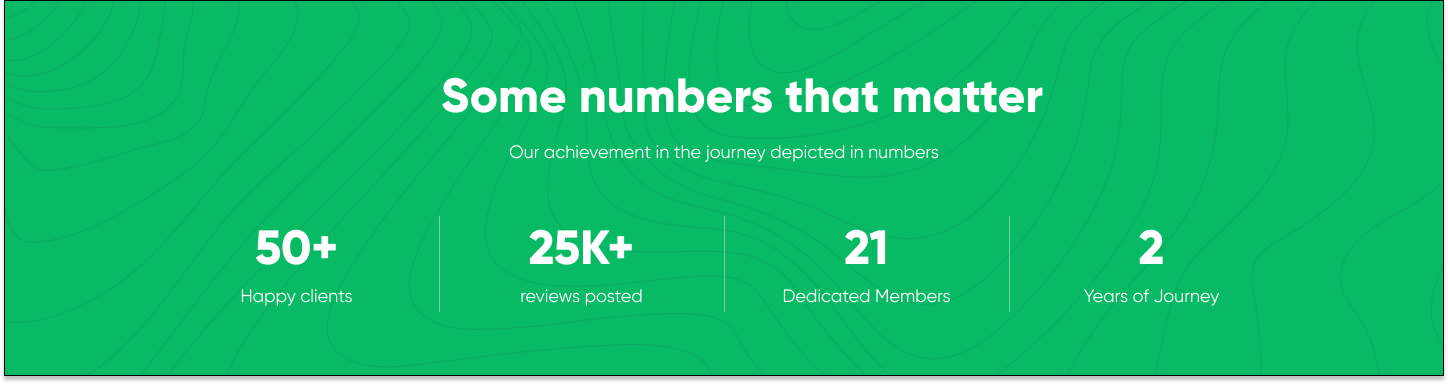
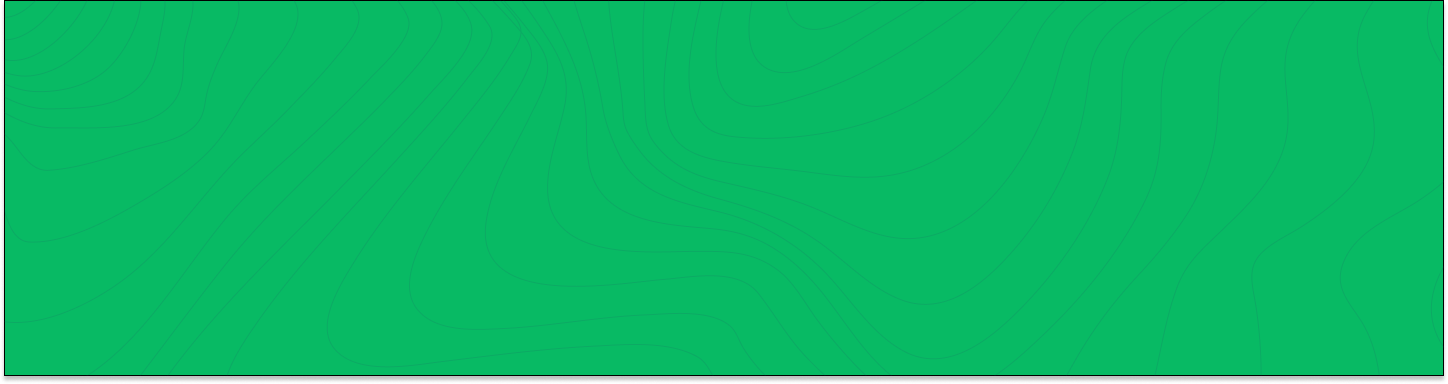
services

diff --git a/css/tooplate-infinite-loop.css b/css/tooplate-infinite-loop.css
@@ -1080,6 +1080,28 @@ input[type=submit]:hover {
 
 }
 
+.mail1{
+  color: rgb(0, 0, 0);
+  padding-left: 20px;
+  
+}
+.mail1:hover{
+  transform: scale(1.01);
+  transition: 0.5s;
+
+}
+.call1{
+  color: rgb(0, 0, 0);
+  padding-left: 20px;
+  
+}
+
+.call1:hover{
+  transform: scale(1.01);
+  transition: 0.5s;
+
+}
+
 .social {
   justify-content: space-evenly;
   padding-top: 10px;
@@ -1098,4 +1120,182 @@ input[type=submit]:hover {
 .social img:hover{
   transform: scale(1.1);
   transition: 0.5s;
+}
+
+.whitebg{
+  padding-top: 50px;
+  background-color: white;
+  display: flex;
+  flex-direction: row;
+  max-width: 100%;
+  justify-content: space-between;
+  border: 90px solid white;
+  
+}
+
+.whitebg h5{
+  color: #E63946;
+}
+
+.whitebg h6{
+  color: black;
+}
+
+.safran{
+  align-items: center;
+  background-color: #FF6E1A;
+}
+
+
+
+.horizont{
+  display: flex;
+  flex-direction: row;
+  justify-content: space-between;
+}
+
+.item{
+  text-align: center;
+  
+  height: 100%;
+  width: 100%;
+}
+
+.conty{
+  text-align: center;
+ background-image: url(/madmonk/constants/number.png);
+ background-repeat: no-repeat;
+ background-attachment: fixed;
+ background-size: 100% 100%;
+}
+
+.serve{
+
+  display: flex;
+  flex-direction: row;
+  
+ justify-items: center;
+  justify-content: space-around;
+  /* padding-left: 20%;
+  padding-right: 20%; */
+  
+}
+
+.serve1{
+height: 500px;
+width: 550px;
+background: linear-gradient(to bottom right,#FFA51E,#FA5A92);
+display: flex;
+flex-direction: column;
+
+justify-items: center;
+text-align: justify;
+border-radius: 20px;
+
+
+}
+
+.ser{
+  padding-top: 50px;
+  padding-left: 40px;
+  height: 200px;
+  width: 500px;
+  color: white;
+}
+
+.contus{
+  display: flex;
+  flex-direction: row;
+  background: linear-gradient(to bottom right,#FF000F,#FA00FF);
+  justify-items: center;
+  width: 1280px;
+  border-radius: 20px;
+  justify-content: space-around;
+}
+
+.make{
+  font-weight: bolder;
+  padding-left: 50px;
+  padding-top: 30px;
+  width: 100%;
+  height: 100%;
+  justify-items: center;
+}
+
+.make img:hover{
+  transform: scaleX(1.2);
+  transition: 0.5s;
+
+}
+
+.serve1 img:hover{
+  transform: scale(1.1);
+  transition: 0.5s;
+
+}
+
+.service1{
+  padding-top: 30px;
+  display: flex;
+  flex-direction: row;
+  justify-content: space-around;
+  background-color: #000000;
+}
+
+.img1 img{
+  width: 400px;
+ height: 400px;
+}
+
+.text1{
+  padding-top: 50px;
+ text-align: justify;
+ width: 600px;
+ height: 600px;
+}
+.service2{
+  padding-top: 30px;
+  display: flex;
+  flex-direction: row-reverse;
+  justify-content: space-around;
+  background-color: #000000;
+}
+
+.img2 img{
+  width: 400px;
+ height: 400px;
+ padding-left: 70px;
+ padding-right: 40px;
+}
+
+.text2{
+  padding-top: 50px;
+  padding-left: 200px;
+  padding-right: 50px;
+ text-align: justify;
+ border-top-right-radius: 40px;
+ border-bottom-right-radius: 40px;
+ width: 700px;
+ height: 400px;
+ background-color: #4C40F7;
+}
+
+.service3{
+  padding-top: 30px;
+  display: flex;
+  flex-direction: row;
+  justify-content: space-around;
+  background-color: #000000;
+}
+
+.text3{
+  padding-top: 50px;
+  padding-left: 50px;
+  padding-right: 200px;
+ text-align: justify;
+ border-top-left-radius: 40px;
+ border-bottom-left-radius: 40px;
+ width: 700px;
+ height: 400px;
+ background-color: #E63946;
 }
